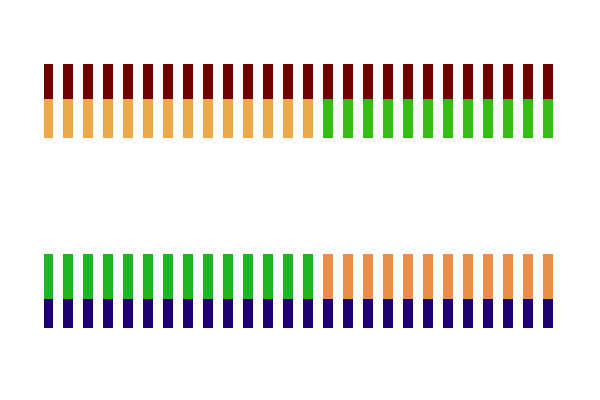
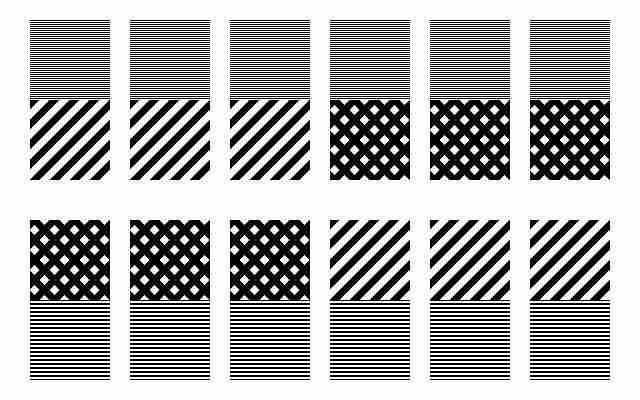
black and white version of identity handout

diff --git a/docs/identity.html b/docs/identity.html
@@ -49,9 +49,9 @@
 <p>In short, the body of the prince appears to have all the mental states of the cobbler, and the body of the cobbler appears to have all the mental states of the prince. The “prince” <em>seems</em> to remember plotting to kill the king. The “cobbler” <em>seems</em> to remember the password to enter the palace.</p>
 <p>We can illustrate the situation like this:</p>
 <figure>
-<img src="../img/person-slices.sm.jpg" alt="The red parts of the person-stages on top represent the prince’s body. The blue parts of the person-stages on the bottom represent the cobbler’s body. The orange parts represent the princely mental states. The green parts represent the cobbled mental states." /><figcaption><em>The red parts of the person-stages on top represent the prince’s body. The blue parts of the person-stages on the bottom represent the cobbler’s body. The orange parts represent the princely mental states. The green parts represent the cobbled mental states.</em></figcaption>
+<img src="../img/person-slices.sm.jpg" alt="The thin horizontal lines on top represent the non-mental portions of the princely person-stages. The thick horizontal lines on the bottom represent the non-mental portions of the cobbled person-stages. The diagonal lines represent the mental portions of the princely person-stages. The cross-hatching represents the mental portions of the cobbled person-stages." /><figcaption><em>The thin horizontal lines on top represent the non-mental portions of the princely person-stages. The thick horizontal lines on the bottom represent the non-mental portions of the cobbled person-stages. The diagonal lines represent the mental portions of the princely person-stages. The cross-hatching represents the mental portions of the cobbled person-stages.</em></figcaption>
 </figure>
-<p>Now, the question is, does personal identity follow non-mental bodily continuity (the red and blue paths) through time, or mental continuity (the green and orange)?</p>
+<p>Now, the question is, does personal identity follow non-mental bodily continuity (the horizontal lines) through time, or mental continuity (the diagonal and cross-hatched lines)?</p>
 <script type="text/javascript" src="http://baruffio.com/reading.js/scripts/reading.min.js"></script>
 </body>
 </html>
